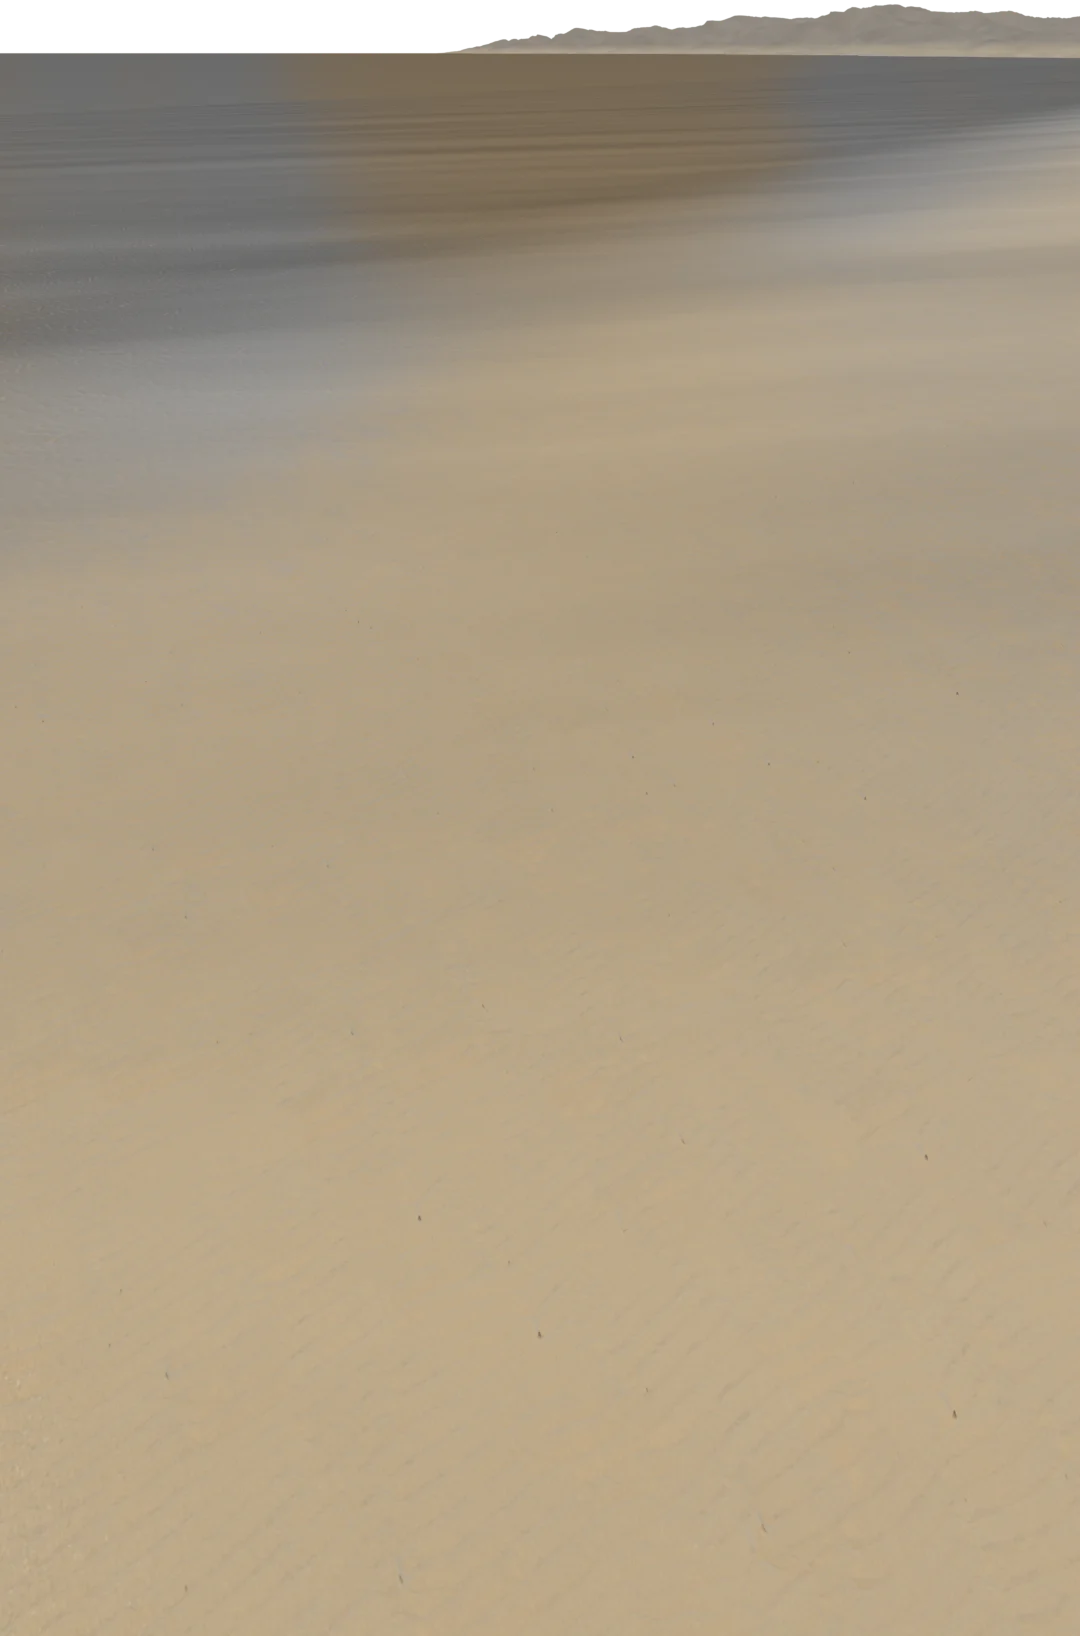
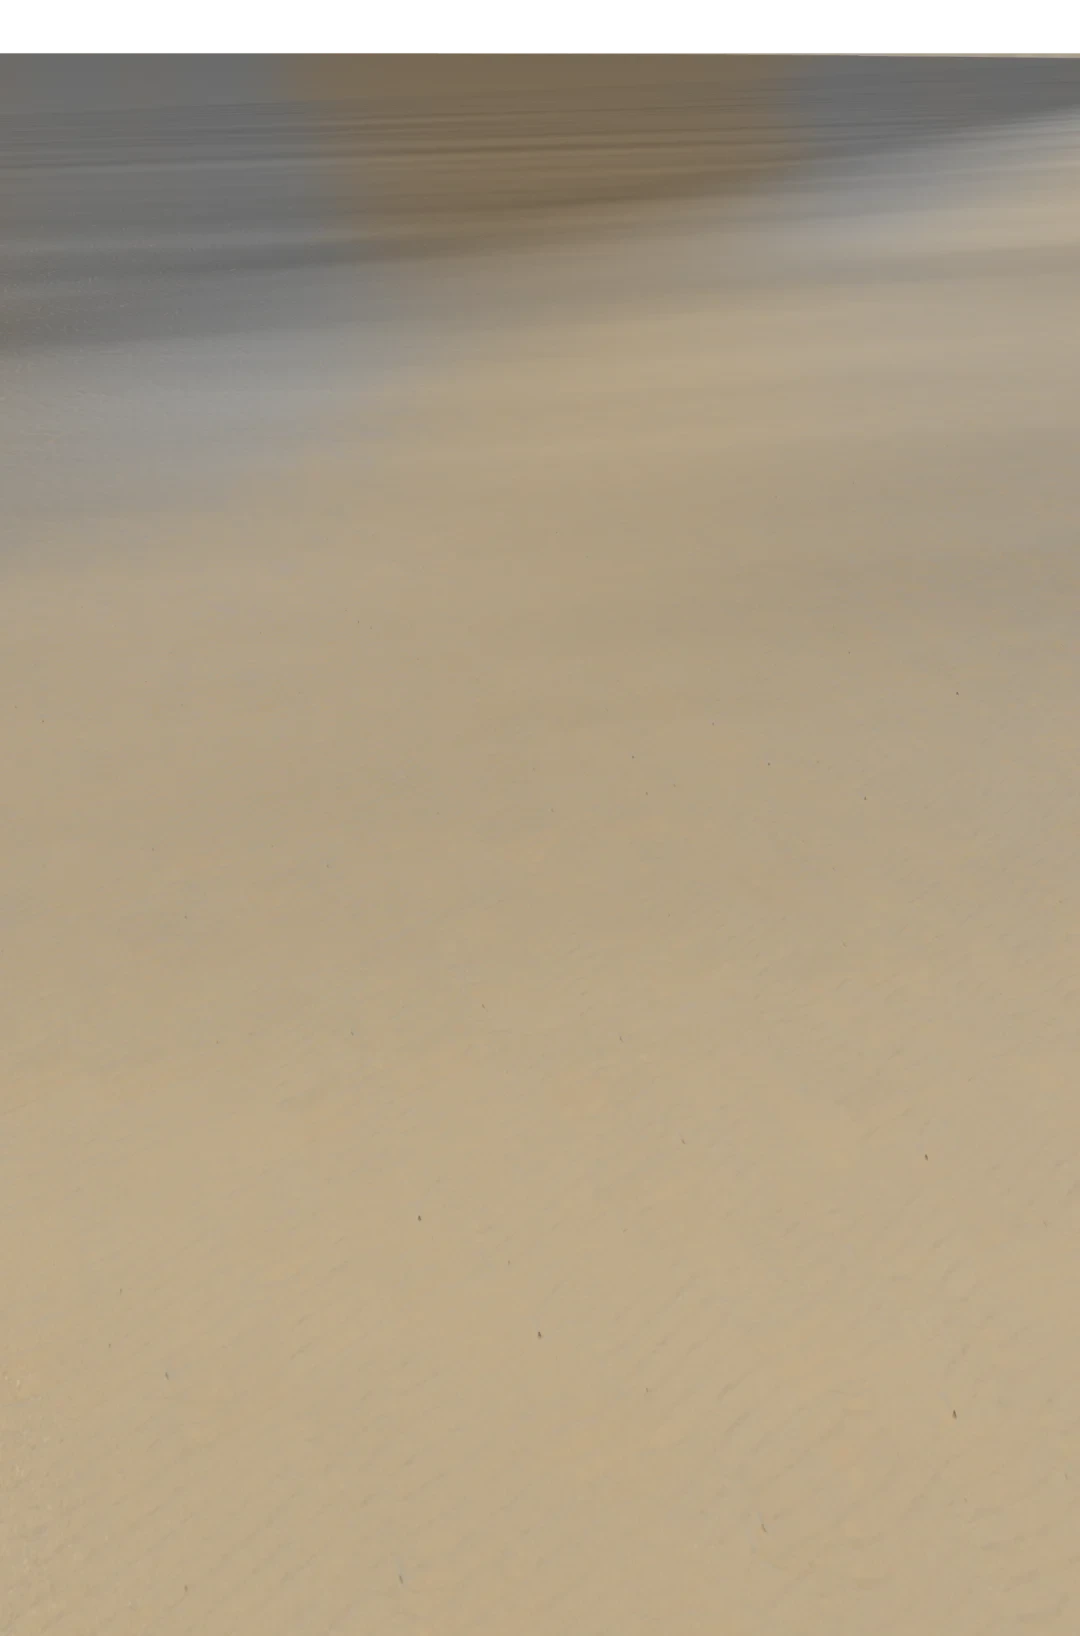
Ocean scenery: an open horizon
The far mountains are taken out of the packed pictures (tools/scenery/open_horizon.py:
the land's alpha above the horizon's row, its distance, and lift, now level):
the sea runs to the horizon and the Sun rises from it and sets into it.
Nothing was rendered again. Seen on the design bench only.

Claude-Session: https://claude.ai/code/session_013HPdtg1FCA93oP24nQyjpM

Changed region(s): [[0.4278, 0.0, 1.0, 0.0312]]

diff --git a/tools/scenery/open_horizon.py b/tools/scenery/open_horizon.py
@@ -1,0 +1,70 @@
+"""Takes the far land out of a packed scenery, so that its water runs to an open horizon.
+
+The owner, of the Ocean scenery (0.13): "for the beach, I don't like the distant terrain. I want you to like the
+entire beach scenery. It's absolutely amazing. But the distant land, I want you to remove that. I want it to be like
+open ocean." The far mountains stand wholly above the horizon in the packed pictures (the sea's bed fills every row
+under it), so nothing has to be rendered again: everything above the horizon's row is made empty in `a.webp` (the
+land's alpha), set to "as far as can be" in `g.png`, and `lift` (how high the skyline stands where the Sun rises and
+sets) becomes level ground. The other pictures are only read where there is land, and stay as they are.
+
+    blender -b --factory-startup -P tools/scenery/open_horizon.py -- <land folder>
+
+Only for a scenery whose land above the horizon is all far land (check a.webp first: a near headland or a tree
+standing over the horizon would be cut off at the horizon's row).
+"""
+import json
+import os
+import sys
+
+import bpy
+import numpy as np
+
+sys.path.insert(0, os.path.dirname(os.path.abspath(__file__)))
+import bake      # noqa: E402
+
+FAR = 2.0e5      # metres: what the packer writes where there is no land
+
+
+def load(path):
+    """A picture's stored values as they are, rows from the top: [h, w, 4], 0..1."""
+    img = bpy.data.images.load(path)
+    img.alpha_mode = 'CHANNEL_PACKED'
+    img.colorspace_settings.name = 'Non-Color'
+    w, h = img.size
+    px = np.empty(w * h * 4, np.float32)
+    img.pixels.foreach_get(px)
+    bpy.data.images.remove(img)
+    return px.reshape(h, w, 4)[::-1].copy()
+
+
+d = sys.argv[sys.argv.index('--') + 1]
+meta = json.load(open(os.path.join(d, 'land.json')))
+row = int(round(meta['horizon'] - meta['top']))            # the first row under the horizon
+
+a = load(os.path.join(d, 'a.webp'))
+if a.shape[0] != meta['height']:
+    sys.exit('a.webp is not the size land.json says')
+gone = int((a[:row, :, 3] >= 0.5).sum())
+# The horizon's own rows: where far land stood they are solid, elsewhere the sea's bed begins there softly. They are
+# given the alpha they have in the columns that never had land above them.
+free = (a[max(row - 12, 0):row, :, 3] < 0.04).all(0)
+if free.any():
+    for y in (row, row + 1):
+        a[y, :, 3] = np.minimum(a[y, :, 3], np.median(a[y, free, 3]))
+# (The emptied pixels keep a colour, the bed's just under the horizon: a filtered edge then has no bright fringe.)
+a[:row, :, :3] = a[row:row + 1, :, :3]
+a[:row, :, 3] = 0.0
+bake.save8(os.path.join(d, 'a.webp'), a, quality=90)
+
+g = load(os.path.join(d, 'g.png'))
+scale = a.shape[0] / g.shape[0]
+grow = int(row / scale)
+v = int(round(np.log2(FAR) / 18.0 * 65535.0))
+g[:grow, :, 0] = (v >> 8) / 255.0
+g[:grow, :, 1] = (v & 255) / 255.0
+bake.save8(os.path.join(d, 'g.png'), g[..., :3])
+
+meta['lift'] = bake.sun_lift(a[..., 3], meta['top'], meta['horizon'], meta.get('focal', 1.15) * meta['width'], meta['height'])
+meta['openHorizon'] = True
+json.dump(meta, open(os.path.join(d, 'land.json'), 'w'), indent=1)
+print('open horizon in %s: %d pixels of far land taken out above row %d, lift now %s' % (d, gone, row, meta['lift']), flush=True)
